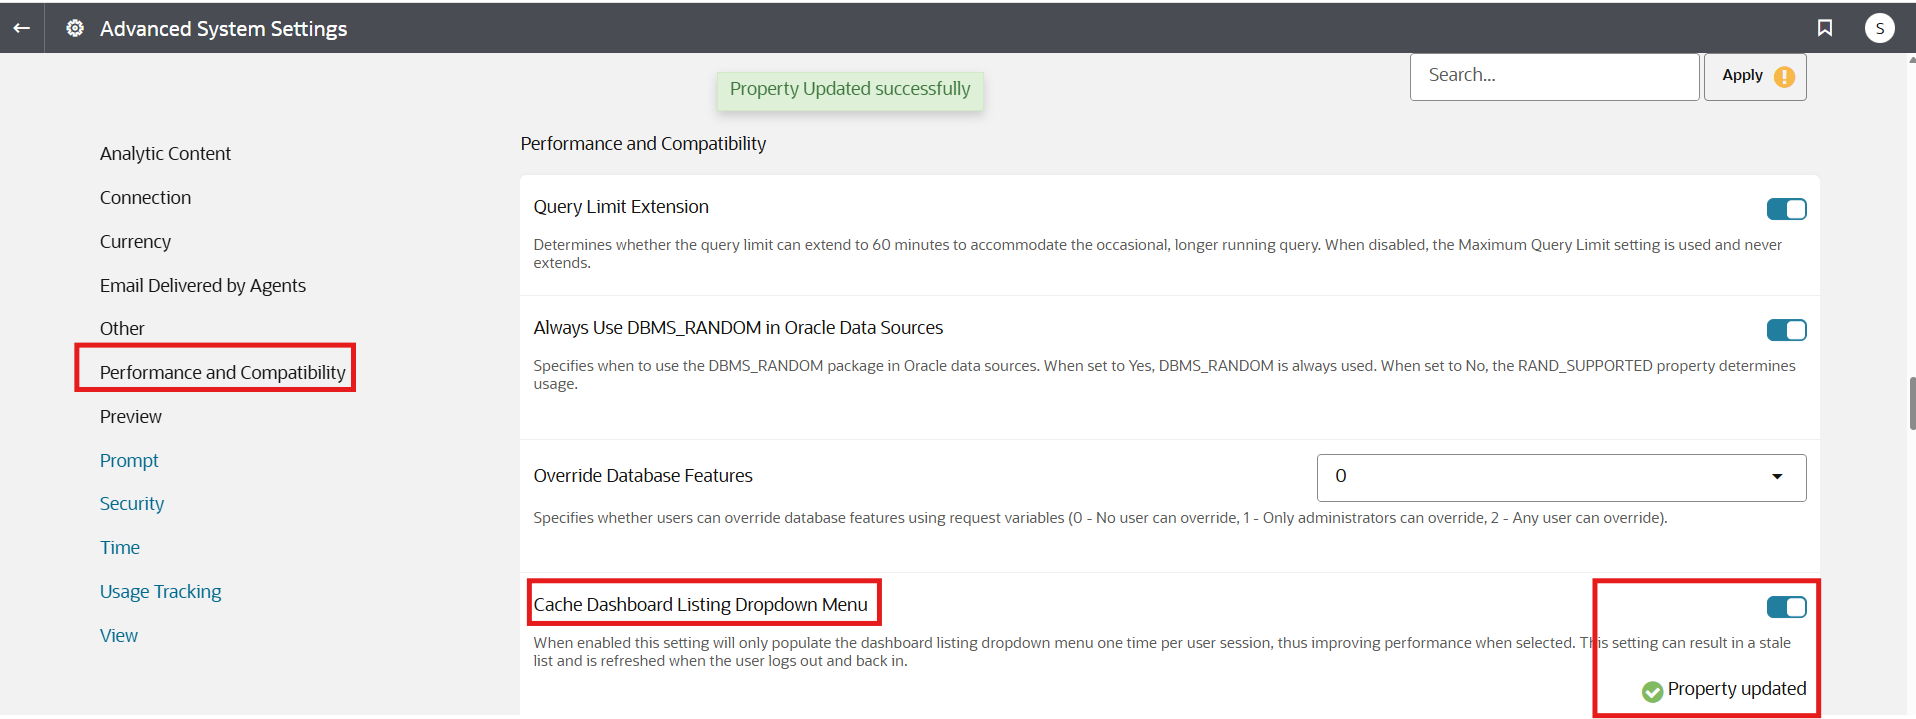
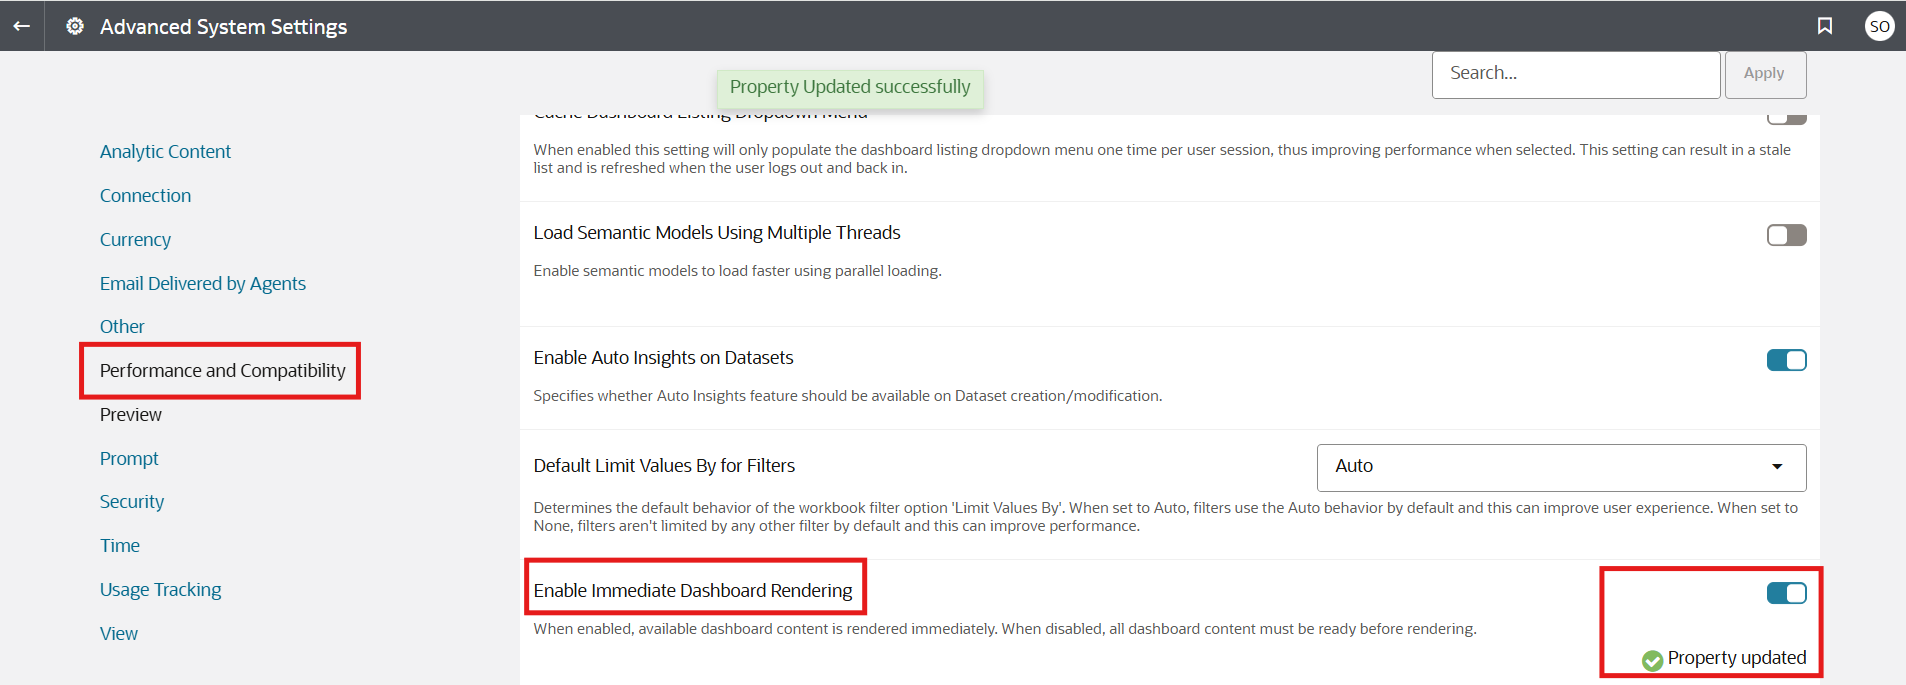
Updated Text as per the new OA UA Standard (#230)
* Added New Images

* Made the changes to the UI and wording

* Removed Steps which are out dated

* Updated Images and text to align with new features of OAC

* Images and Text updated as per the new UI changes

WMS ID:3339 and 3385

* Images updated as per new UI Changes

* Updated Images and Text as per the new UI Changes in OAC

* Change the images and text based on the new UI

* Updated UI and text based on new release

* Updated Images and text aligned with the new UI

* Update Images based on UI Changes

* Updated UI and Write up as per the new UI Changes

* Updated Write up as per the OA Docs Team standars

* Updated UI and Text Changes as per the new UI

* Updated the text as per OAC UA Standards.

* Updated Text as per OAC UA Standards

* Updated Text as per OA UA Standards

* Updated Text as per OA UA Standards

* Updated UI and text as per OA UA Standards

* Changed the UI and text as per the OA UA standards.

* Updated Text as per OA UA Standards

* Updated text as per OA UA Standard

* Updated Text as per OA UA Standard

---------

diff --git a/analytics/sprint-oas-enable-immediate-dashboard-rendering/enable-dashboard-rendering.md b/analytics/sprint-oas-enable-immediate-dashboard-rendering/enable-dashboard-rendering.md
@@ -1,12 +1,12 @@
-# How do I enable immediate dashboard rendering in Oracle Analytics Cloud (OAC)?
+# How do I enable immediate dashboard rendering in Oracle Analytics Cloud and Server (OAC & OAS)?
 
 Duration: 1 minute
 
-When the 'Enable Immediate Dashboard Rendering' option is enabled, it displays dashboard content immediately even if some content is unavailable. This option is a great way to improve end user experience by displaying available dashboard content immediately instead of waiting until all the dashboard content is ready.
+Use the Enable Immediate Dashboard Rendering system setting to display dashboard content immediately even, if some content isn't available. This option is a great way to improve the end user experience by displaying available dashboard content immediately instead of waiting until all the dashboard content is ready.
 
 ## Enable immediate dashboard rendering
 
->**Note:** You must have the **BI Service Administrator** application role to complete this Sprint.
+>**Note:** You must have the **BI Service Administrator** role to complete this following steps.
 
 1. In your Oracle Analytics instance, click the **Navigation menu** and select **Console**.
 
@@ -16,15 +16,11 @@ When the 'Enable Immediate Dashboard Rendering' option is enabled, it displays d
 
   ![Configuration Admin](images/system-settings.png)
 
-3. Within the System Settings, click on **Performance and Compatibility** and search for **Enable Immediate Dashboard Rendering**. Toggle the button to enable this option.
+3. Within the System Settings, click the **Performance and Compatibility** and search for **Enable Immediate Dashboard Rendering**. Click the toggle to enable it.
 
   ![System Settings](images/performance.png)
 
-4. Once you enable this option, scroll to the top and click **Apply** to apply this change.
-
-  ![Restart](images/restart.png)
-
-5. Your dashboard content should now be rendered immediately.
+4.Your dashboard content should now be rendered immediately.
 
   ![Confirm restart](images/obips.png)
 

diff --git a/analytics/sprint-oa-cache-dashboard-listing-dropdown-menu/cache-dashboard-listing-dropdown-menu.md b/analytics/sprint-oa-cache-dashboard-listing-dropdown-menu/cache-dashboard-listing-dropdown-menu.md
@@ -6,7 +6,7 @@ The Cache Dashboard Listing Dropdown Menu option is a great way to improve perfo
 
 ## Enable cache dashboard listing dropdown menu
 
->**Note:** You must have the **BI Service Administrator** application role to complete this Sprint. This setting can result in a stale list and is refreshed when your user logs out and logs back in.
+>**Note:** You must have the **BI Service Administrator** role to complete the following steps. Changing this system setting can result in users experiencing stale dashboard lists. After you change this setting, users should log out and log back into Oracle Analytics.
 
 1. In your Oracle Analytics instance, click the **Navigation menu** and select **Console**.
 
@@ -14,17 +14,13 @@ The Cache Dashboard Listing Dropdown Menu option is a great way to improve perfo
 
 2. Under **Configuration and Settings**, select **Advanced System Settings**.
 
-  ![System Settings](images/system-settings.png)
+  ![Configuration Admin](images/system-settings.png)
 
-3. Within the Advanced System Settings, click on **Performance and Compatibility** and search for **Cache Dashboard Listing Dropdown Menu**. Toggle the button to enable this option.
+3. Within the System Settings, click the **Performance and Compatibility** and search for **Enable Immediate Dashboard Rendering**. Click the toggle to enable it.
 
-  ![Performance](images/performance.png)
+  ![System Settings](images/performance.png)
 
-4. Once you enable this option, scroll to the top and click **Apply** to apply this change.
-
-  ![Restart](images/restart.png)
-
-5. The Cache Dashboard Listing Dropdown Menu should now be enabled.
+4. Your dashboard content should now be rendered immediately.
 
   ![Confirm restart](images/obips.png)
 
